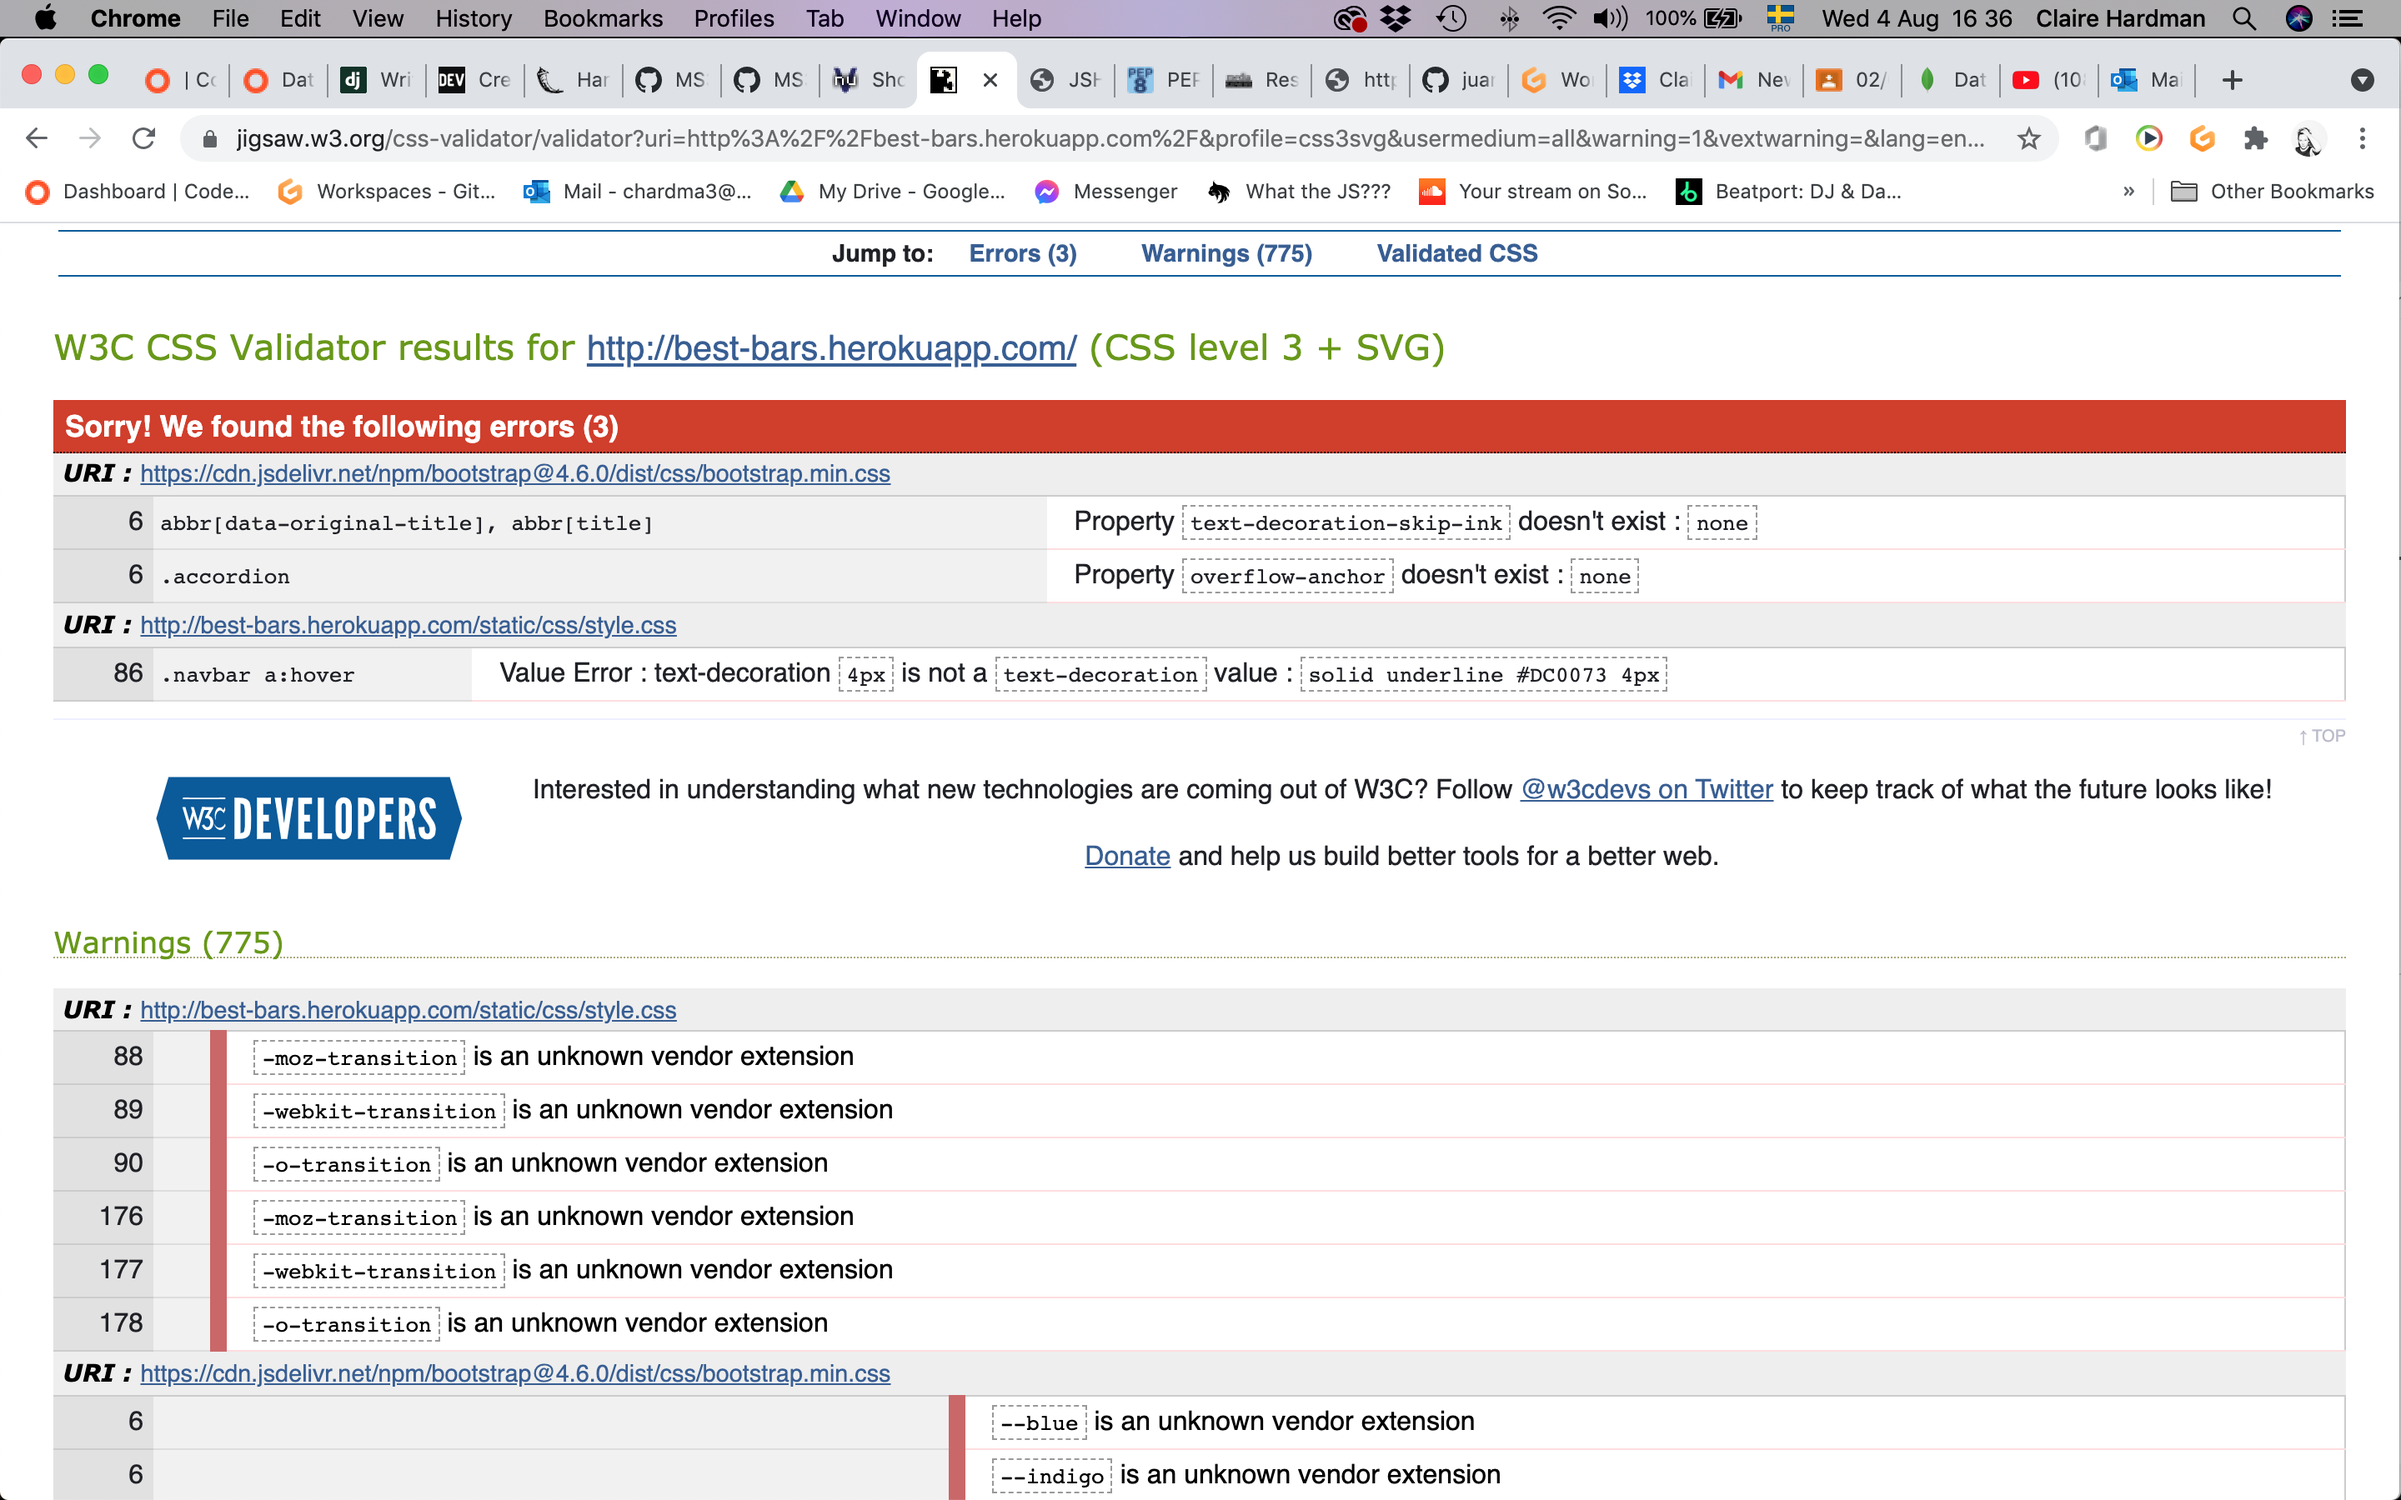
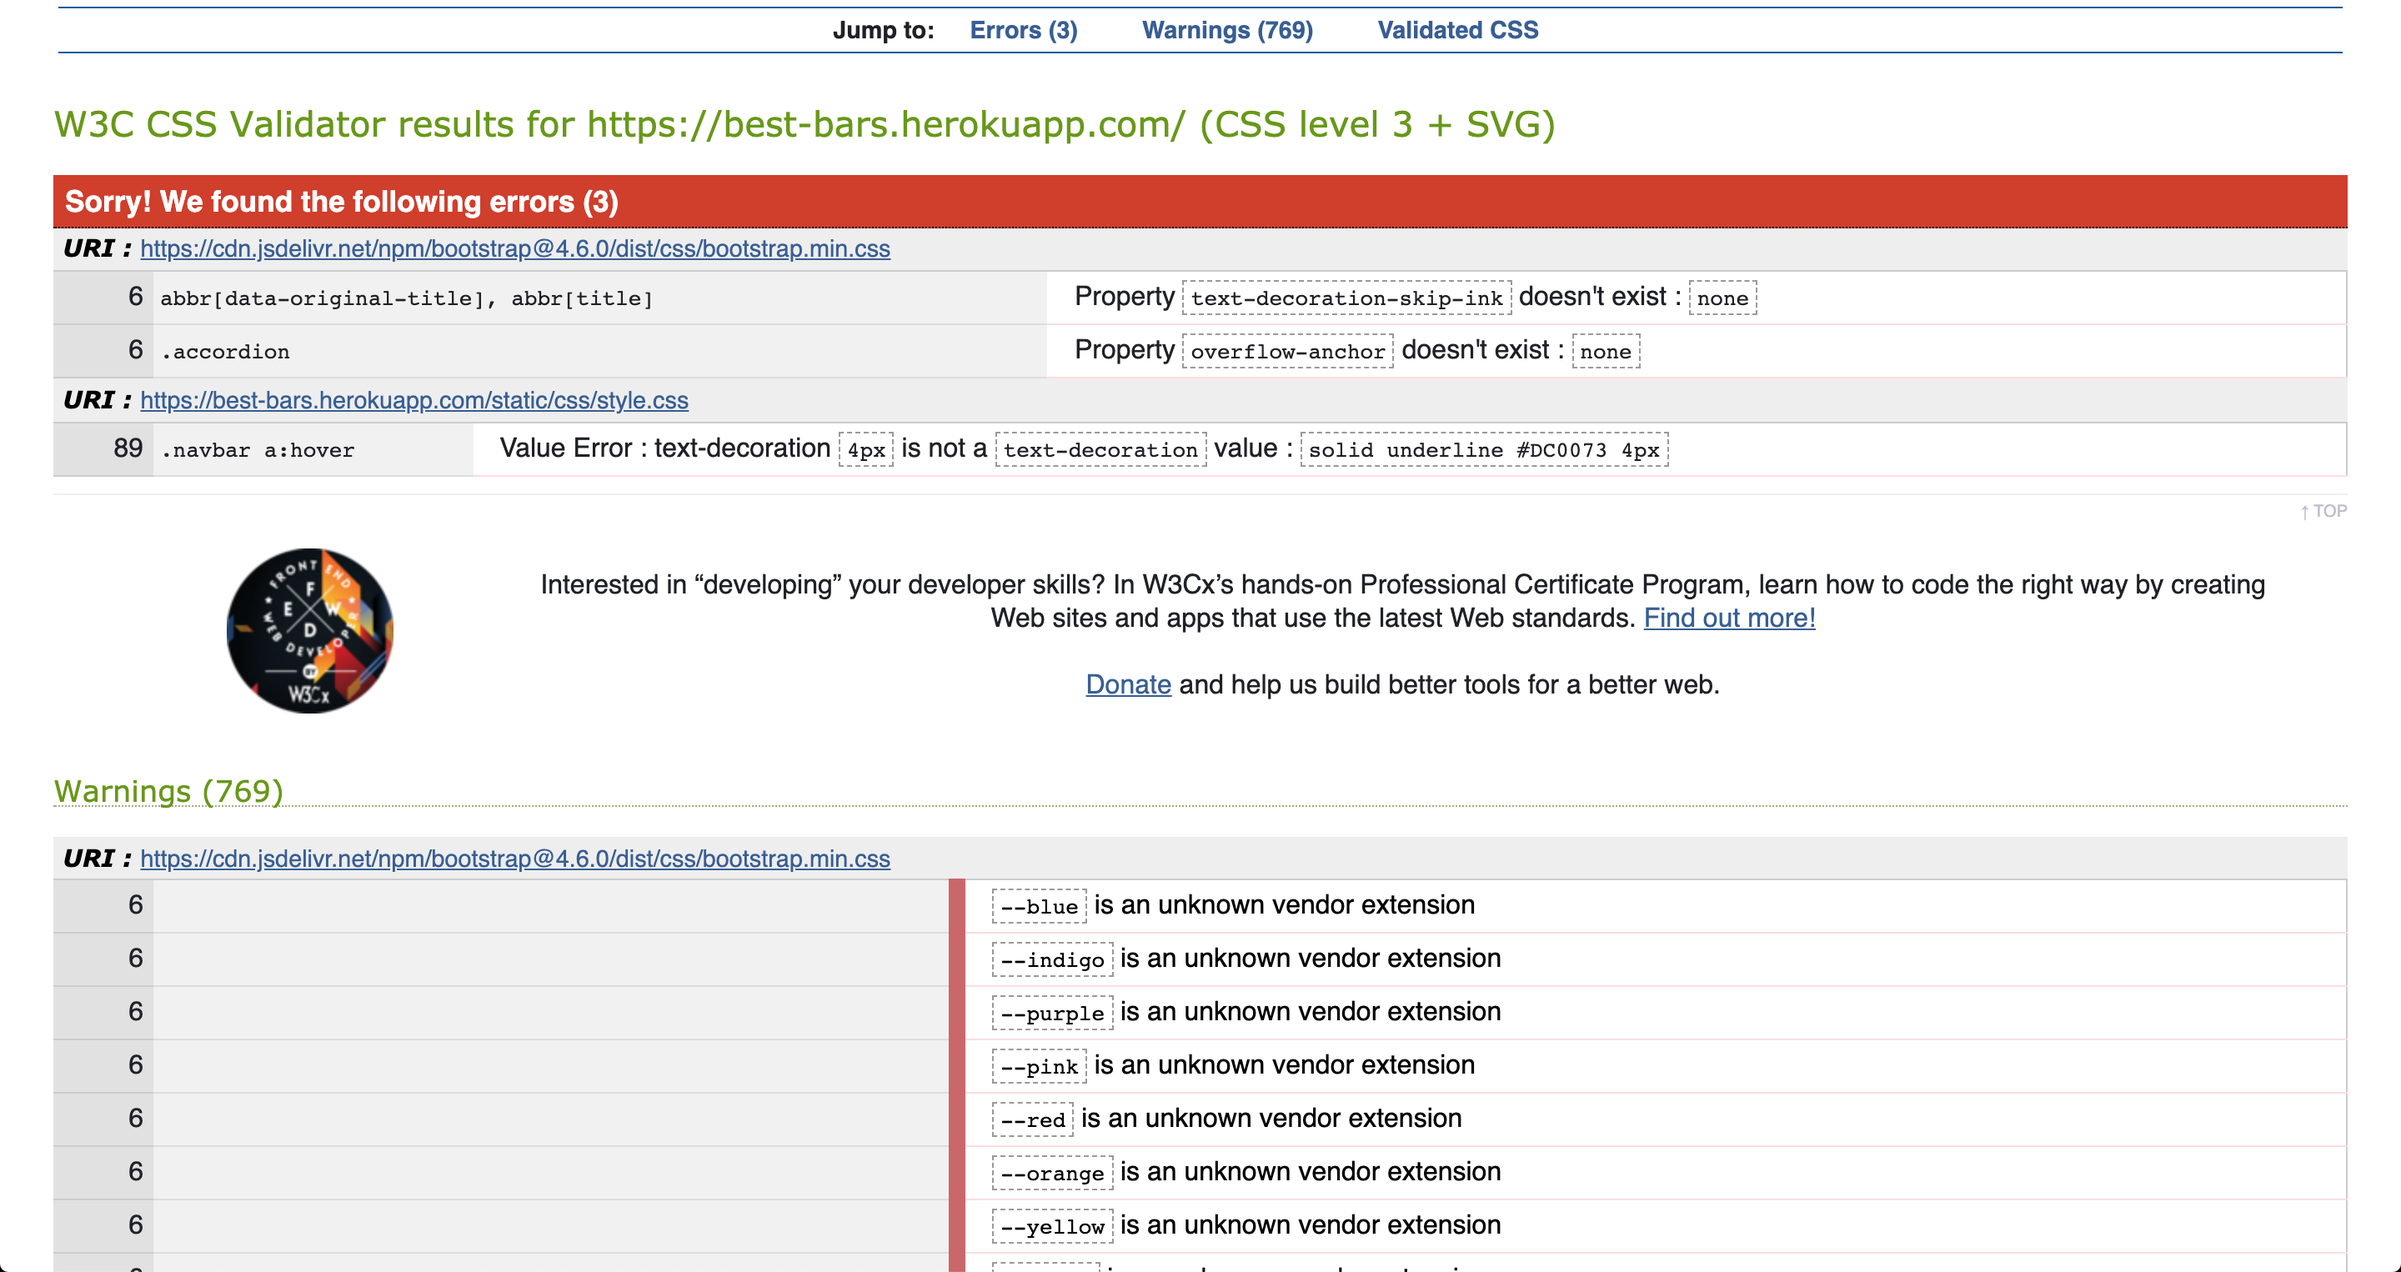
updated testing with css validation

Changed region(s): [[0.0, 0.0, 1.0, 0.5852], [0.0, 0.616, 0.625, 1.0]]

diff --git a/TESTING.md b/TESTING.md
@@ -19,7 +19,9 @@
 
     ![warning](readme_img/testing/html-validator.png)
 
-- **[CSS Validator](https://jigsaw.w3.org/css-validator/):** No errors found.
+- **[CSS Validator](https://jigsaw.w3.org/css-validator/)
+** The css validator returned an error stating that 4px is not a valid text decoration value. I checked on MDN WebDocs and it validated my use.
+It also showed warnings for unknown vendors. These we can ignore.
 ![CSS Validator](readme_img/testing/css-validator.png)
 
 - **[JS Hint](https://jshint.com/):** No errors found, no warnings, one undefined variable 
